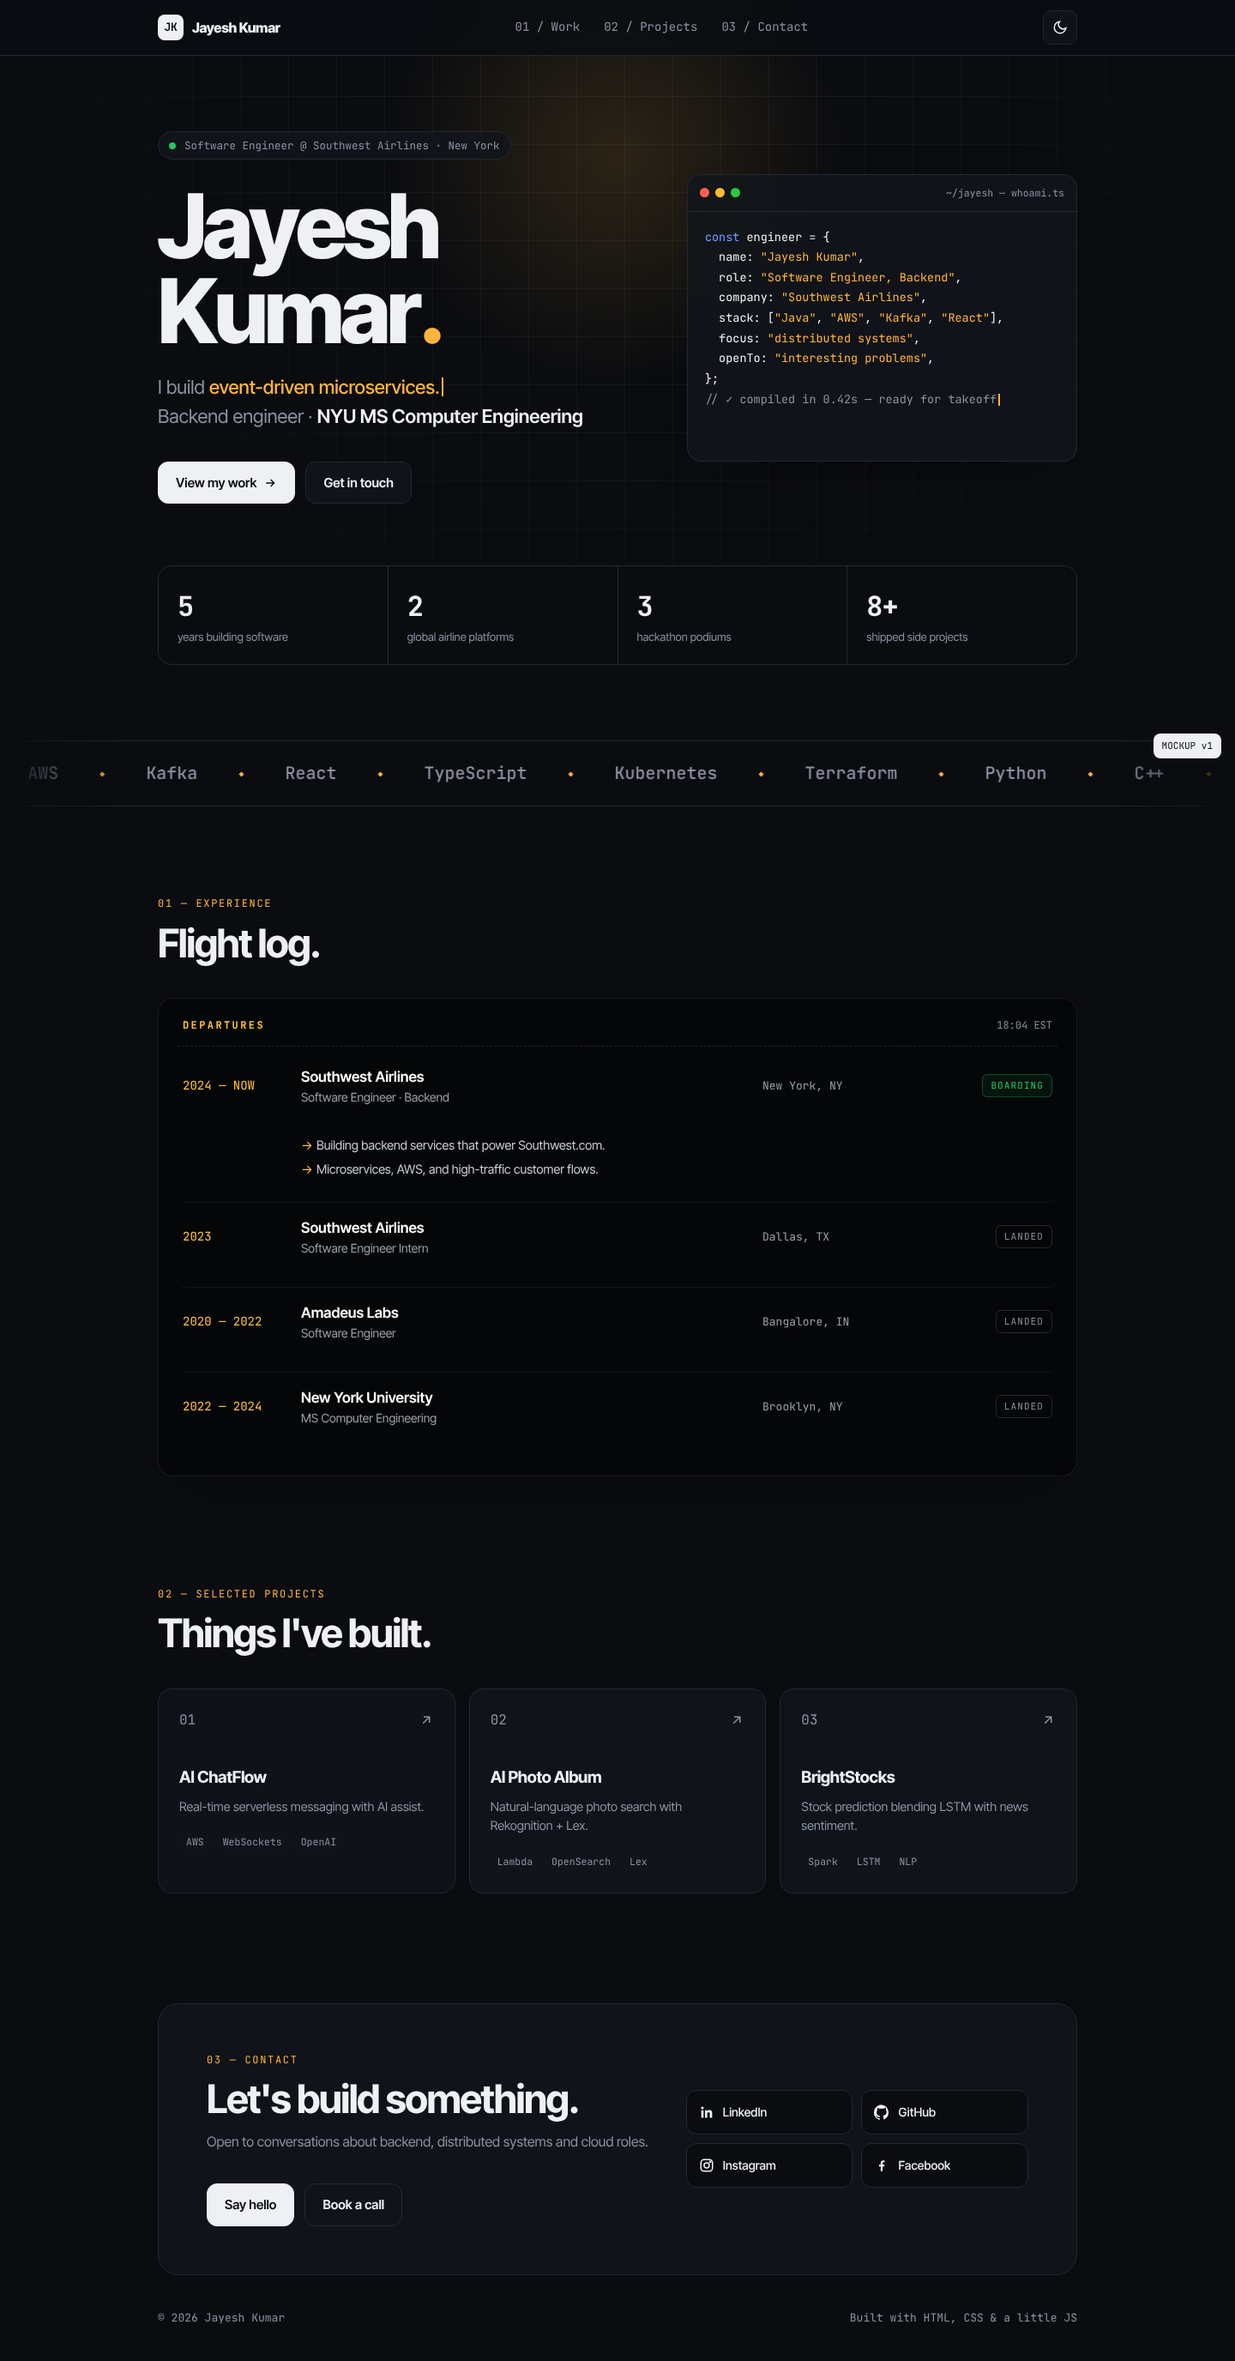
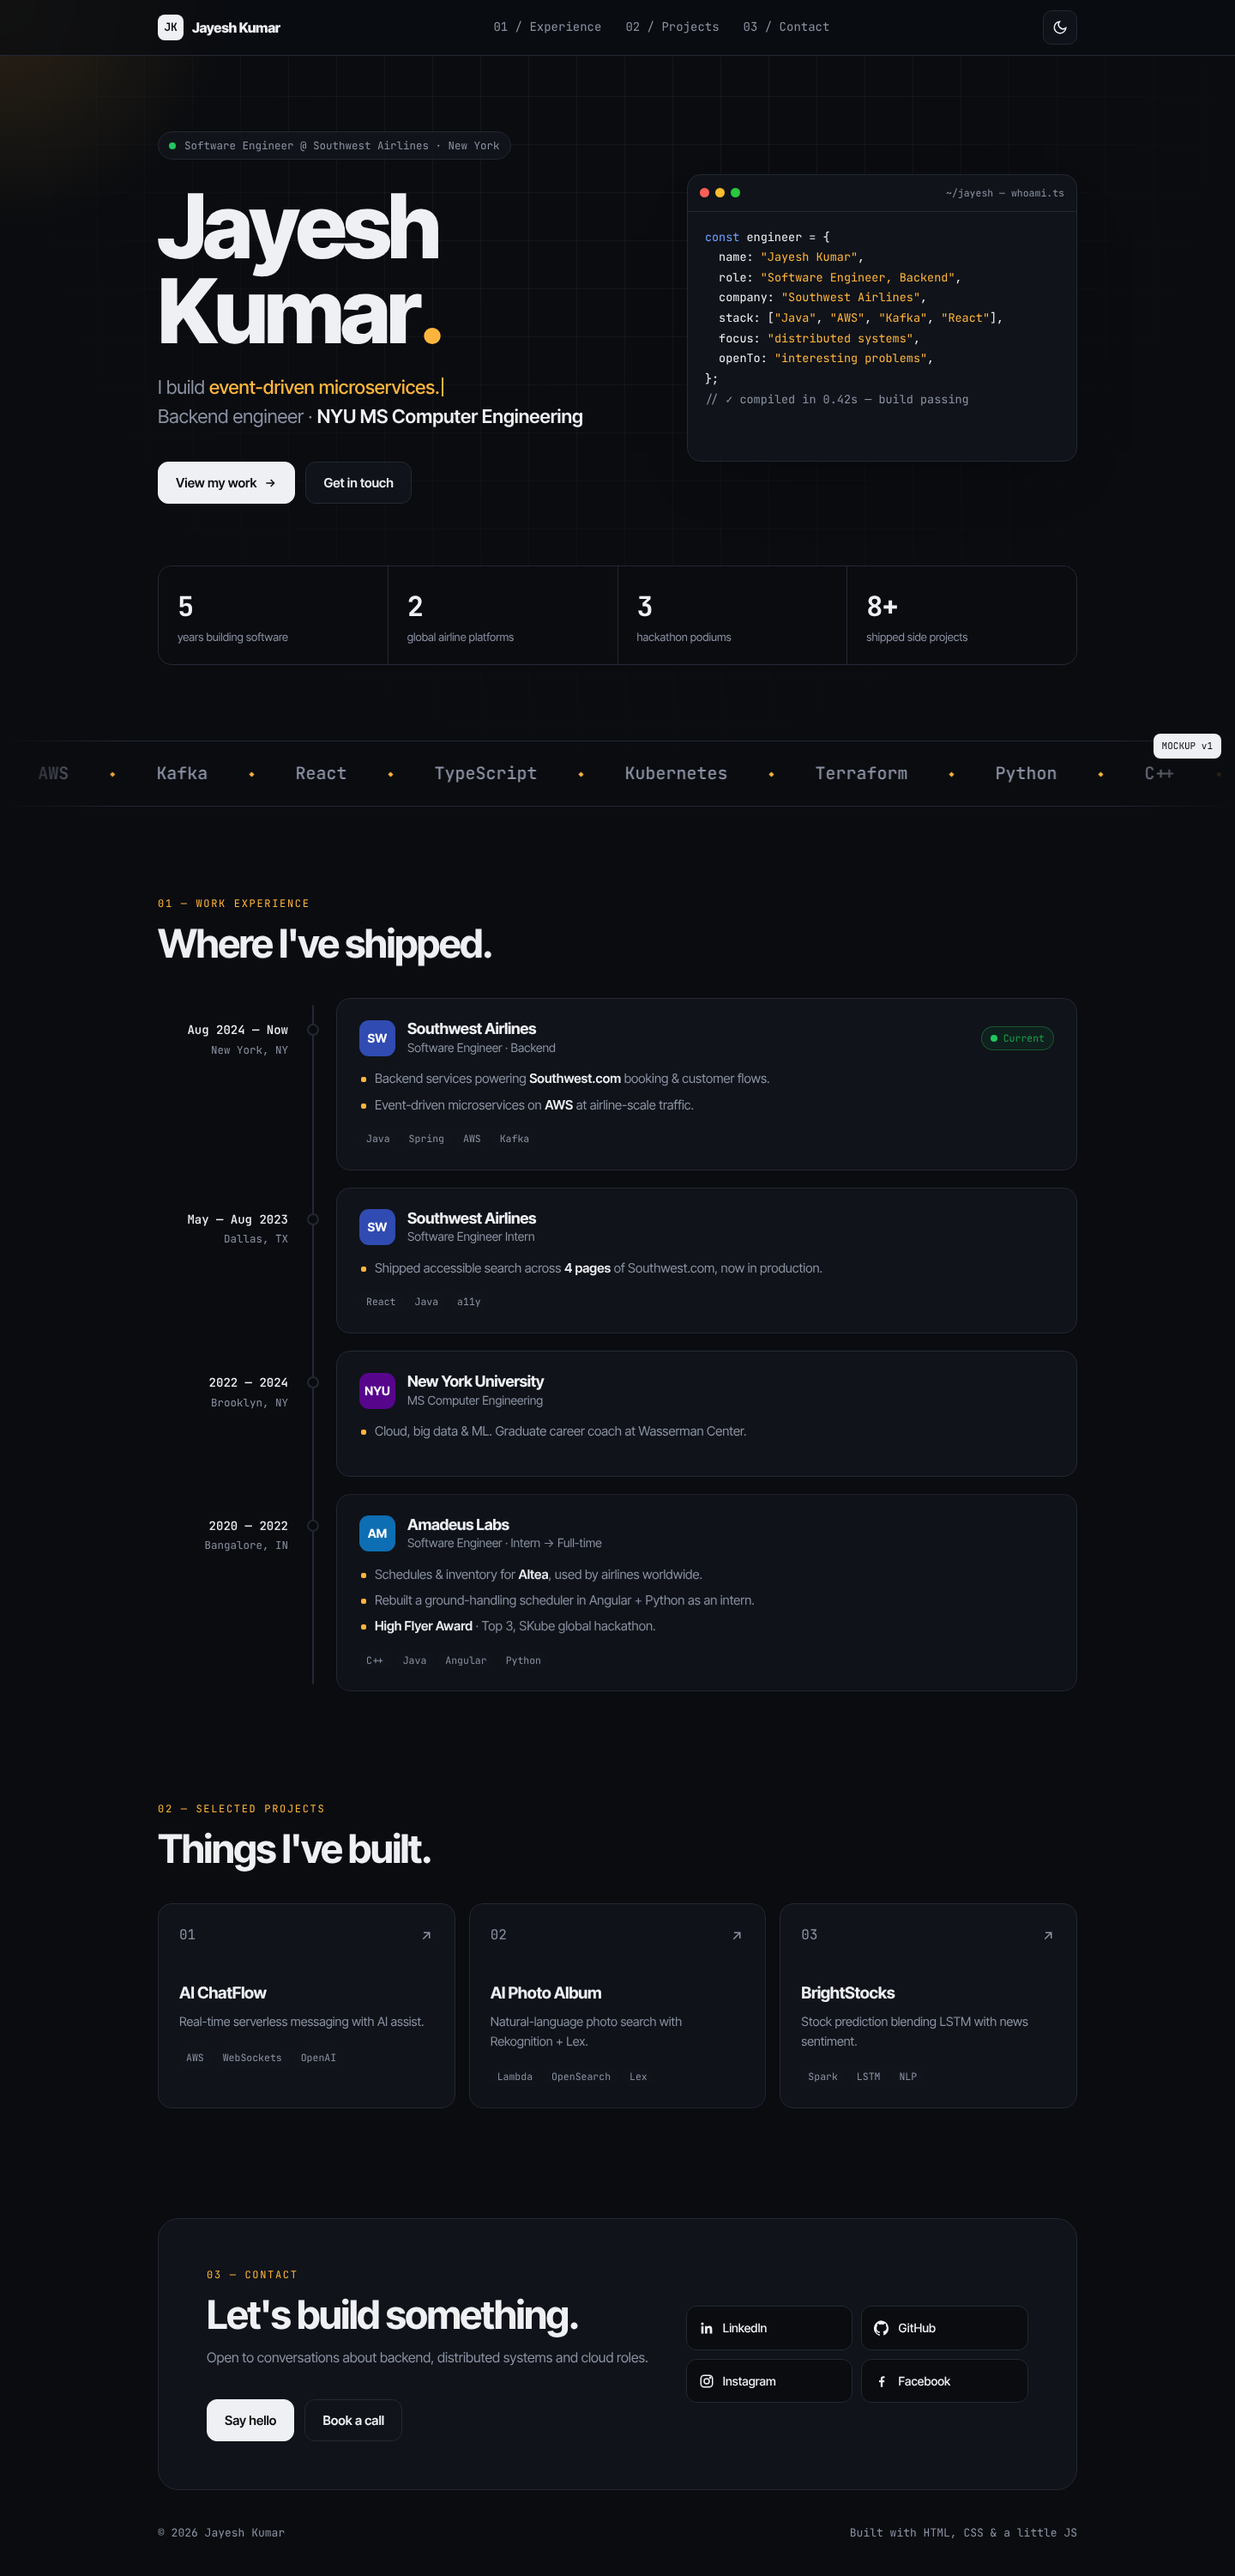
Mockup v2: replace flight-log board with scroll-linked experience timeline
Claude-Session: https://claude.ai/code/session_01GttXN6xmCPBkrQzVHG2Dbs

diff --git a/mockup/index.html b/mockup/index.html
@@ -97,33 +97,35 @@ section.wrap{padding-top:104px;padding-bottom:24px}
 .eyebrow{font-size:12px;letter-spacing:.14em;text-transform:uppercase;color:var(--accent);margin-bottom:12px}
 h2{font-size:clamp(30px,4.4vw,46px);letter-spacing:-.035em;line-height:1.05;font-weight:700;margin-bottom:40px}
 
-/* departures board */
-.board{background:var(--board);border-radius:18px;padding:22px;color:#e9e9e9;box-shadow:0 30px 60px -30px rgba(0,0,0,.45);border:1px solid #ffffff14}
-.board-head{display:flex;justify-content:space-between;align-items:center;font-size:12px;color:#8a8f99;padding:0 6px 14px;border-bottom:1px dashed #ffffff1f;margin-bottom:6px}
-.board-head b{color:var(--board-text);letter-spacing:.2em}
-.row{display:grid;grid-template-columns:120px 1fr 200px 120px;gap:18px;align-items:center;padding:16px 6px;border-bottom:1px solid #ffffff0f;cursor:pointer;border-radius:10px;transition:background .2s}
-.row:hover{background:#ffffff08}
-.row:last-child{border-bottom:none}
-.cell-time{color:var(--board-text);font-size:14px}
-.co{font-weight:600;font-size:17px;color:#fff}
-.ti{font-size:14px;color:#9aa0ab}
-.loc{font-size:13px;color:#9aa0ab}
-.badge{justify-self:end;font-size:11px;padding:4px 9px;border-radius:6px;letter-spacing:.1em;border:1px solid}
-.b-now{color:#22c55e;border-color:#22c55e55;background:#22c55e14}
-.b-done{color:#8a8f99;border-color:#ffffff22}
-.detail{grid-column:1/-1;max-height:0;overflow:hidden;transition:max-height .45s ease;color:#c9ccd3;font-size:14.5px}
-.row.open .detail{max-height:220px}
-.detail ul{list-style:none;padding:10px 0 4px 138px}
-.detail li{position:relative;padding-left:18px;margin:6px 0}
-.detail li::before{content:"→";position:absolute;left:0;color:var(--board-text)}
-.splitflap .c{display:inline-block;min-width:.62em;text-align:center}
+/* experience timeline */
+.xp{position:relative;display:grid;gap:20px}
+.xp-line{position:absolute;left:180px;top:8px;bottom:8px;width:2px;background:var(--line);border-radius:2px}
+.xp-fill{position:absolute;left:0;top:0;width:100%;height:var(--p,0%);background:linear-gradient(var(--accent),var(--accent-2));border-radius:2px;transition:height .1s linear}
+.job{display:grid;grid-template-columns:180px 1fr;position:relative}
+.when{padding:26px 28px 0 0;text-align:right;font-size:12.5px;color:var(--muted);line-height:1.7}
+.when b{display:block;color:var(--text);font-size:14px;font-weight:500}
+.node{position:absolute;left:174px;top:30px;width:14px;height:14px;border-radius:50%;background:var(--bg);border:2px solid var(--line);transition:all .4s;z-index:1}
+.job.active .node{border-color:var(--accent);background:var(--accent);box-shadow:0 0 0 6px var(--glow)}
+.job-card{margin-left:28px;border:1px solid var(--line);border-radius:16px;padding:24px 26px;background:var(--surface);transition:border-color .4s,transform .4s}
+.job.active .job-card{border-color:color-mix(in srgb,var(--accent) 40%,var(--line))}
+.job-card:hover{transform:translateX(4px)}
+.jh{display:flex;align-items:center;gap:14px;margin-bottom:14px}
+.mark{width:42px;height:42px;border-radius:11px;display:grid;place-items:center;font-weight:700;font-size:14px;color:#fff;flex:none}
+.jh h3{font-size:18px;letter-spacing:-.02em;line-height:1.2}
+.jh .r{font-size:14px;color:var(--muted)}
+.now{margin-left:auto;display:inline-flex;align-items:center;gap:7px;font-size:11.5px;padding:4px 10px;border-radius:99px;border:1px solid #22c55e55;color:#16a34a;background:#22c55e14}
+.job-card ul{list-style:none;display:grid;gap:7px;margin-bottom:16px}
+.job-card li{position:relative;padding-left:18px;font-size:15px;color:var(--muted)}
+.job-card li::before{content:"";position:absolute;left:2px;top:10px;width:6px;height:6px;border-radius:2px;background:var(--accent)}
+.job-card li b{color:var(--text);font-weight:600}
 @media (max-width:760px){
-  .row{grid-template-columns:1fr auto;gap:4px 12px}
-  .cell-time{grid-column:1/-1;font-size:12px}
-  .loc{display:none}
-  .detail ul{padding-left:0}
+  .xp-line{left:6px}.node{left:0;top:28px}
+  .job{grid-template-columns:1fr;padding-left:28px}
+  .when{text-align:left;padding:0 0 8px;display:flex;gap:10px;align-items:baseline}
+  .when b{display:inline}
+  .job-card{margin-left:0;padding:20px}
+  .now span.t{display:none}
 }
-
 /* projects */
 .grid{display:grid;grid-template-columns:repeat(3,1fr);gap:16px}
 @media (max-width:900px){.grid{grid-template-columns:repeat(2,1fr)}}
@@ -172,7 +174,7 @@ footer{padding:40px 0;color:var(--muted);font-size:13px;display:flex;justify-con
   <div class="wrap">
     <a href="#" class="logo"><span class="mono">JK</span>Jayesh Kumar</a>
     <div class="links mono">
-      <a href="#work">01 / Work</a><a href="#projects">02 / Projects</a><a href="#contact">03 / Contact</a>
+      <a href="#work">01 / Experience</a><a href="#projects">02 / Projects</a><a href="#contact">03 / Contact</a>
     </div>
     <button class="toggle" id="toggle" aria-label="Toggle theme">
       <svg class="sun" viewBox="0 0 24 24" fill="none" stroke="currentColor" stroke-width="2"><circle cx="12" cy="12" r="4"/><path d="M12 2v2M12 20v2M4.9 4.9l1.4 1.4M17.7 17.7l1.4 1.4M2 12h2M20 12h2M4.9 19.1l1.4-1.4M17.7 6.3l1.4-1.4"/></svg>
@@ -212,52 +214,60 @@ footer{padding:40px 0;color:var(--muted);font-size:13px;display:flex;justify-con
 </div>
 
 <section id="work" class="wrap">
-  <div class="eyebrow mono reveal">01 — Experience</div>
-  <h2 class="reveal">Flight log.</h2>
-  <div class="board reveal">
-    <div class="board-head mono"><b>DEPARTURES</b><span id="clock">--:--</span></div>
+  <div class="eyebrow mono reveal">01 — Work experience</div>
+  <h2 class="reveal">Where I've shipped.</h2>
+  <div class="xp" id="xp">
+    <div class="xp-line"><div class="xp-fill" id="xpFill"></div></div>
 
-    <div class="row open">
-      <div class="cell-time mono splitflap">2024 — NOW</div>
-      <div><div class="co">Southwest Airlines</div><div class="ti">Software Engineer · Backend</div></div>
-      <div class="loc mono">New York, NY</div>
-      <div class="badge b-now mono">BOARDING</div>
-      <div class="detail"><ul>
-        <li>Building backend services that power Southwest.com.</li>
-        <li>Microservices, AWS, and high-traffic customer flows.</li>
-      </ul></div>
+    <div class="job reveal">
+      <div class="when mono"><b>Aug 2024 — Now</b>New York, NY</div>
+      <div class="node"></div>
+      <div class="job-card">
+        <div class="jh"><div class="mark" style="background:#304cb2">SW</div>
+          <div><h3>Southwest Airlines</h3><div class="r">Software Engineer · Backend</div></div>
+          <span class="now mono"><span class="dot"></span><span class="t">Current</span></span></div>
+        <ul>
+          <li>Backend services powering <b>Southwest.com</b> booking &amp; customer flows.</li>
+          <li>Event-driven microservices on <b>AWS</b> at airline-scale traffic.</li>
+        </ul>
+        <div class="tags mono"><span class="tag">Java</span><span class="tag">Spring</span><span class="tag">AWS</span><span class="tag">Kafka</span></div>
+      </div>
     </div>
 
-    <div class="row">
-      <div class="cell-time mono splitflap">2023</div>
-      <div><div class="co">Southwest Airlines</div><div class="ti">Software Engineer Intern</div></div>
-      <div class="loc mono">Dallas, TX</div>
-      <div class="badge b-done mono">LANDED</div>
-      <div class="detail"><ul>
-        <li>Shipped an accessible search enhancement across 4 pages of Southwest.com (React + Java).</li>
-      </ul></div>
+    <div class="job reveal">
+      <div class="when mono"><b>May — Aug 2023</b>Dallas, TX</div>
+      <div class="node"></div>
+      <div class="job-card">
+        <div class="jh"><div class="mark" style="background:#304cb2">SW</div>
+          <div><h3>Southwest Airlines</h3><div class="r">Software Engineer Intern</div></div></div>
+        <ul><li>Shipped accessible search across <b>4 pages</b> of Southwest.com, now in production.</li></ul>
+        <div class="tags mono"><span class="tag">React</span><span class="tag">Java</span><span class="tag">a11y</span></div>
+      </div>
     </div>
 
-    <div class="row">
-      <div class="cell-time mono splitflap">2020 — 2022</div>
-      <div><div class="co">Amadeus Labs</div><div class="ti">Software Engineer</div></div>
-      <div class="loc mono">Bangalore, IN</div>
-      <div class="badge b-done mono">LANDED</div>
-      <div class="detail"><ul>
-        <li>Airline schedules &amp; inventory on the Altea platform (C++, Java).</li>
-        <li>Migrated a ground-handling scheduler to Angular + Python as an intern.</li>
-        <li>High Flyer Award · Top-3 SKube Hackathon.</li>
-      </ul></div>
+    <div class="job reveal">
+      <div class="when mono"><b>2022 — 2024</b>Brooklyn, NY</div>
+      <div class="node"></div>
+      <div class="job-card">
+        <div class="jh"><div class="mark" style="background:#57068c">NYU</div>
+          <div><h3>New York University</h3><div class="r">MS Computer Engineering</div></div></div>
+        <ul><li>Cloud, big data &amp; ML. Graduate career coach at Wasserman Center.</li></ul>
+      </div>
     </div>
 
-    <div class="row">
-      <div class="cell-time mono splitflap">2022 — 2024</div>
-      <div><div class="co">New York University</div><div class="ti">MS Computer Engineering</div></div>
-      <div class="loc mono">Brooklyn, NY</div>
-      <div class="badge b-done mono">LANDED</div>
-      <div class="detail"><ul>
-        <li>Cloud computing, big data, ML. Graduate career coach at Wasserman Center.</li>
-      </ul></div>
+    <div class="job reveal">
+      <div class="when mono"><b>2020 — 2022</b>Bangalore, IN</div>
+      <div class="node"></div>
+      <div class="job-card">
+        <div class="jh"><div class="mark" style="background:#0f6fb5">AM</div>
+          <div><h3>Amadeus Labs</h3><div class="r">Software Engineer · Intern → Full-time</div></div></div>
+        <ul>
+          <li>Schedules &amp; inventory for <b>Altea</b>, used by airlines worldwide.</li>
+          <li>Rebuilt a ground-handling scheduler in Angular + Python as an intern.</li>
+          <li><b>High Flyer Award</b> · Top 3, SKube global hackathon.</li>
+        </ul>
+        <div class="tags mono"><span class="tag">C++</span><span class="tag">Java</span><span class="tag">Angular</span><span class="tag">Python</span></div>
+      </div>
     </div>
   </div>
 </section>
@@ -354,11 +364,14 @@ footer{padding:40px 0;color:var(--muted);font-size:13px;display:flex;justify-con
     });
   }), {threshold:.15});
   document.querySelectorAll('.reveal').forEach((el,i)=>{ el.style.transitionDelay = (i%4)*70+'ms'; io.observe(el); });
-  // board rows
-  document.querySelectorAll('.row').forEach(r => r.onclick = () => r.classList.toggle('open'));
-  const clock = document.getElementById('clock');
-  const upd = () => clock.textContent = new Date().toLocaleTimeString('en-US',{hour:'2-digit',minute:'2-digit',hour12:false,timeZone:'America/New_York'})+' EST';
-  upd(); setInterval(upd, 30000);
+  // experience timeline: scroll-linked progress + active node
+  const xp = document.getElementById('xp'), fill = document.getElementById('xpFill'), jobs = [...xp.querySelectorAll('.job')];
+  const onScroll = () => {
+    const r = xp.getBoundingClientRect(), mid = innerHeight * .55;
+    fill.style.setProperty('--p', Math.max(0, Math.min(100, (mid - r.top) / r.height * 100)) + '%');
+    jobs.forEach(j => j.classList.toggle('active', j.querySelector('.node').getBoundingClientRect().top < mid));
+  };
+  addEventListener('scroll', onScroll, {passive:true}); onScroll();
   // card spotlight + tilt
   document.querySelectorAll('.card').forEach(c => {
     c.addEventListener('pointermove', e => {
@@ -377,7 +390,7 @@ footer{padding:40px 0;color:var(--muted);font-size:13px;display:flex;justify-con
   focus: <span class="s">"distributed systems"</span>,
   openTo: <span class="s">"interesting problems"</span>,
 };
-<span class="c">// ✓ compiled in 0.42s — ready for takeoff</span>`;
+<span class="c">// ✓ compiled in 0.42s — build passing</span>`;
   const term = document.getElementById('term');
   if (reduce) term.innerHTML = html; else {
     let i = 0; const tt = setInterval(() => {
